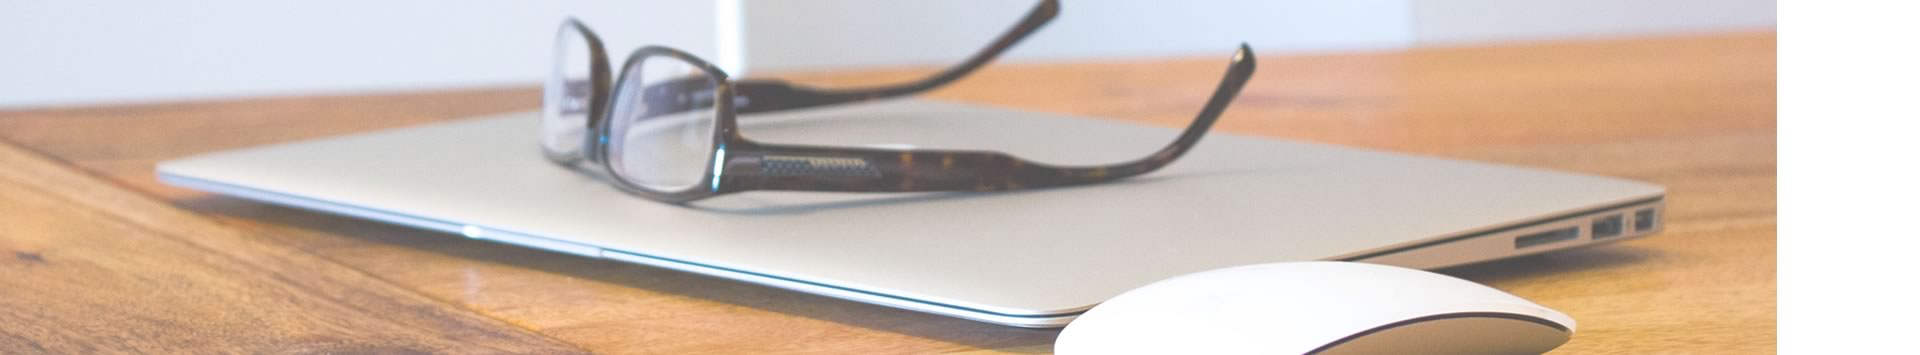
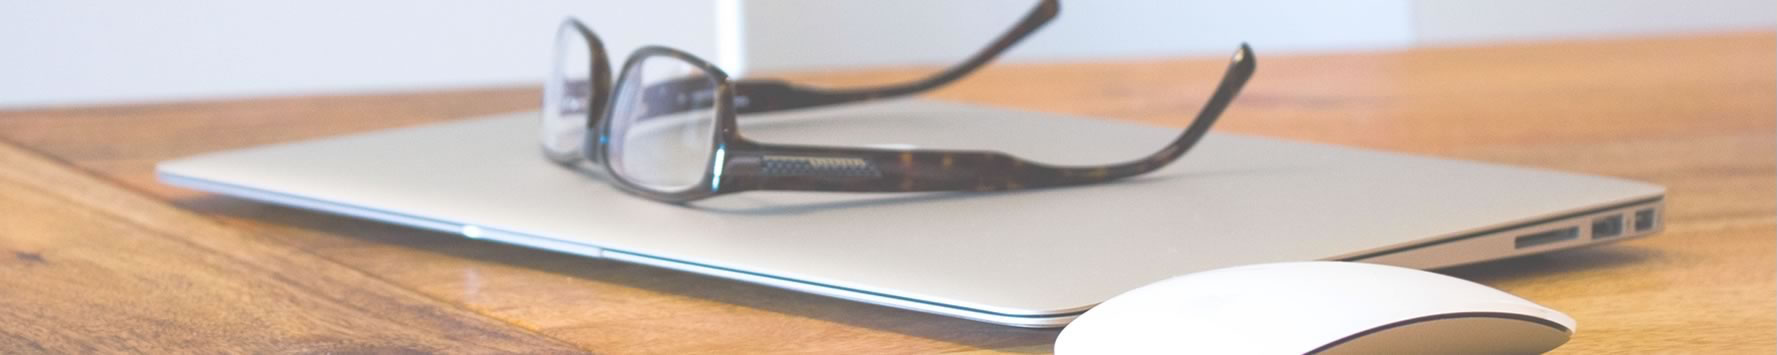
about: header image, Close #54

diff --git a/css/about.css b/css/about.css
@@ -1,1 +1,1 @@
-code{background-color:#002b36;color:#93a1a1}code .c{color:#586e75}code .err{color:#93a1a1}code .g{color:#93a1a1}code .k{color:#859900}code .l{color:#93a1a1}code .n{color:#93a1a1}code .o{color:#859900}code .x{color:#cb4b16}code .p{color:#93a1a1}code .cm{color:#586e75}code .cp{color:#859900}code .c1{color:#586e75}code .cs{color:#859900}code .gd{color:#2aa198}code .ge{color:#93a1a1;font-style:italic}code .gr{color:#dc322f}code .gh{color:#cb4b16}code .gi{color:#859900}code .go{color:#93a1a1}code .gp{color:#93a1a1}code .gs{color:#93a1a1;font-weight:bold}code .gu{color:#cb4b16}code .gt{color:#93a1a1}code .kc{color:#cb4b16}code .kd{color:#268bd2}code .kn{color:#859900}code .kp{color:#859900}code .kr{color:#268bd2}code .kt{color:#dc322f}code .ld{color:#93a1a1}code .m{color:#2aa198}code .s{color:#2aa198}code .na{color:#93a1a1}code .nb{color:#b58900}code .nc{color:#268bd2}code .no{color:#cb4b16}code .nd{color:#268bd2}code .ni{color:#cb4b16}code .ne{color:#cb4b16}code .nf{color:#268bd2}code .nl{color:#93a1a1}code .nn{color:#93a1a1}code .nx{color:#93a1a1}code .py{color:#93a1a1}code .nt{color:#268bd2}code .nv{color:#268bd2}code .ow{color:#859900}code .w{color:#93a1a1}code .mf{color:#2aa198}code .mh{color:#2aa198}code .mi{color:#2aa198}code .mo{color:#2aa198}code .sb{color:#586e75}code .sc{color:#2aa198}code .sd{color:#93a1a1}code .s2{color:#2aa198}code .se{color:#cb4b16}code .sh{color:#93a1a1}code .si{color:#2aa198}code .sx{color:#2aa198}code .sr{color:#dc322f}code .s1{color:#2aa198}code .ss{color:#2aa198}code .bp{color:#268bd2}code .vc{color:#268bd2}code .vg{color:#268bd2}code .vi{color:#268bd2}code .il{color:#2aa198}html,body,div,span,applet,object,iframe,h1,h2,h3,h4,h5,h6,p,blockquote,pre,a,abbr,acronym,address,big,cite,code,del,dfn,em,img,ins,kbd,q,s,samp,small,strike,strong,sub,sup,tt,var,b,u,i,center,dl,dt,dd,ol,ul,li,fieldset,form,label,legend,table,caption,tbody,tfoot,thead,tr,th,td,article,aside,canvas,details,embed,figure,figcaption,footer,header,hgroup,menu,nav,output,ruby,section,summary,time,mark,audio,video{margin:0;padding:0;border:0;font:inherit;font-size:100%;vertical-align:baseline}html{line-height:1}ol,ul{list-style:none}table{border-collapse:collapse;border-spacing:0}caption,th,td{text-align:left;font-weight:normal;vertical-align:middle}q,blockquote{quotes:none}q:before,q:after,blockquote:before,blockquote:after{content:"";content:none}a img{border:none}article,aside,details,figcaption,figure,footer,header,hgroup,menu,nav,section,summary{display:block}@font-face{font-family:'Proxima Nova Light Italic';src:url('../fonts/ProximaNova-LightItalic.eot');src:url('../fonts/ProximaNova-LightItalic.eot?#iefix') format("embedded-opentype"),url('../fonts/ProximaNova-LightItalic.woff') format("woff"),url('../fonts/ProximaNova-LightItalic.ttf') format("truetype"),url('../fonts/ProximaNova-LightItalic.svg#1a04ccc617b24808e8115891ca97cce8') format("svg");font-style:italic;font-weight:200}@font-face{font-family:'Proxima Nova Extrabold';src:url('../fonts/ProximaNova-Extrabold.eot');src:url('../fonts/ProximaNova-Extrabold.eot?#iefix') format("embedded-opentype"),url('../fonts/ProximaNova-Extrabold.woff') format("woff"),url('../fonts/ProximaNova-Extrabold.ttf') format("truetype"),url('../fonts/ProximaNova-Extrabold.svg#131ef5652291f8dc4bd914210809df02') format("svg");font-style:normal;font-weight:700}@font-face{font-family:'Proxima Nova Semibold';src:url('../fonts/ProximaNova-Semibold.eot');src:url('../fonts/ProximaNova-Semibold.eot?#iefix') format("embedded-opentype"),url('../fonts/ProximaNova-Semibold.woff') format("woff"),url('../fonts/ProximaNova-Semibold.ttf') format("truetype"),url('../fonts/ProximaNova-Semibold.svg#67a6c9f6d7dc8f35ecb08de766ea56f0') format("svg");font-style:normal;font-weight:700}@font-face{font-family:'Proxima Nova Bold';src:url('../fonts/ProximaNova-Bold.eot');src:url('../fonts/ProximaNova-Bold.eot?#iefix') format("embedded-opentype"),url('../fonts/ProximaNova-Bold.woff') format("woff"),url('../fonts/ProximaNova-Bold.ttf') format("truetype"),url('../fonts/ProximaNova-Bold.svg#d1e00a8fb1fd9b428ab6b90409479fde') format("svg");font-style:normal;font-weight:700}@font-face{font-family:'Proxima Nova Regular';src:url('../fonts/ProximaNova-Regular.eot');src:url('../fonts/ProximaNova-Regular.eot?#iefix') format("embedded-opentype"),url('../fonts/ProximaNova-Regular.woff') format("woff"),url('../fonts/ProximaNova-Regular.ttf') format("truetype"),url('../fonts/ProximaNova-Regular.svg#2c1459d58560f08b4b0586fbe80aa4cd') format("svg");font-style:normal;font-weight:400}@font-face{font-family:'Proxima Nova Light';src:url('../fonts/ProximaNova-Light.eot');src:url('../fonts/ProximaNova-Light.eot?#iefix') format("embedded-opentype"),url('../fonts/ProximaNova-Light.woff') format("woff"),url('../fonts/ProximaNova-Light.ttf') format("truetype"),url('../fonts/ProximaNova-Light.svg#da6ddaf3cf69afbba47bd74b5010b98d') format("svg");font-style:normal;font-weight:200}.icons-sprite,.icons-anchor,.icons-arrow-down,.icons-arrow-right,.icons-arrow,.icons-book-large-white,.icons-book-medium-black,.icons-book-medium-orange,.icons-book-medium-white,.icons-book-small-orange,.icons-book-small-white,.icons-book,.icons-calendar-large-white,.icons-calendar-medium-white,.icons-calendar-small-black,.icons-calendar-small-orange,.icons-calendar-small-white,.icons-design-large-white,.icons-design-medium-black,.icons-design-medium-orange,.icons-design-medium-white,.icons-design-small-black,.icons-design-small-orange,.icons-design-small-white,.icons-design,.icons-difficulty-large-white,.icons-difficulty-medium-black,.icons-difficulty-medium-orange,.icons-difficulty-medium-white,.icons-difficulty-small-black,.icons-difficulty-small-orange,.icons-difficulty-small-white,.icons-logo-footer,.icons-logo-inside,.icons-logo,.icons-org-large-white,.icons-org-medium-black,.icons-org-medium-orange,.icons-org-medium-white,.icons-org-small-black,.icons-org-small-orange,.icons-org-small-white,.icons-org,.icons-pin,.icons-time-large-white,.icons-time-medium-black,.icons-time-medium-orange,.icons-time-medium-white,.icons-time-small-black,.icons-time-small-orange,.icons-time-small-white,.icons-twitter-footer{background:url('../img/icons-s131d88969d.png') no-repeat}.icons-anchor{background-position:0 -1387px}.icons-arrow-down{background-position:0 -1589px}.icons-arrow-right{background-position:0 -1518px}.icons-arrow{background-position:0 -1579px}.icons-book-large-white{background-position:0 -337px}.icons-book-medium-black{background-position:0 -861px}.icons-book-medium-orange{background-position:0 -633px}.icons-book-medium-white{background-position:0 -717px}.icons-book-small-orange{background-position:0 -989px}.icons-book-small-white{background-position:0 -1121px}.icons-book{background-position:0 -559px}.icons-calendar-large-white{background-position:0 -589px}.icons-calendar-medium-white{background-position:0 -1253px}.icons-calendar-small-black{background-position:0 -1446px}.icons-calendar-small-orange{background-position:0 -1199px}.icons-calendar-small-white{background-position:0 -1398px}.icons-design-large-white{background-position:0 -891px}.icons-design-medium-black{background-position:0 -1357px}.icons-design-medium-orange{background-position:0 -1067px}.icons-design-medium-white{background-position:0 -1327px}.icons-design-small-black{background-position:0 -1555px}.icons-design-small-orange{background-position:0 -1422px}.icons-design-small-white{background-position:0 -1470px}.icons-design{background-position:0 -1013px}.icons-difficulty-large-white{background-position:0 -293px}.icons-difficulty-medium-black{background-position:0 -935px}.icons-difficulty-medium-orange{background-position:0 -529px}.icons-difficulty-medium-white{background-position:0 -663px}.icons-difficulty-small-black{background-position:0 -1283px}.icons-difficulty-small-orange{background-position:0 -837px}.icons-difficulty-small-white{background-position:0 -1097px}.icons-logo-footer{background-position:0 -243px}.icons-logo-inside{background-position:0 -149px}.icons-logo{background-position:0 0}.icons-org-large-white{background-position:0 -381px}.icons-org-medium-black{background-position:0 -807px}.icons-org-medium-orange{background-position:0 -425px}.icons-org-medium-white{background-position:0 -747px}.icons-org-small-black{background-position:0 -1175px}.icons-org-small-orange{background-position:0 -693px}.icons-org-small-white{background-position:0 -1043px}.icons-org{background-position:0 -455px}.icons-pin{background-position:0 -199px}.icons-time-large-white{background-position:0 -485px}.icons-time-medium-black{background-position:0 -1223px}.icons-time-medium-orange{background-position:0 -777px}.icons-time-medium-white{background-position:0 -1145px}.icons-time-small-black{background-position:0 -1531px}.icons-time-small-orange{background-position:0 -965px}.icons-time-small-white{background-position:0 -1494px}.icons-twitter-footer{background-position:0 -1307px}.icon{display:block;float:left;width:30px;height:30px}.icon.i-hard{filter:progid:DXImageTransform.Microsoft.Alpha(Opacity=80);opacity:0.8}.icon.i-medium{filter:progid:DXImageTransform.Microsoft.Alpha(Opacity=60);opacity:0.6}.icon.i-light{filter:progid:DXImageTransform.Microsoft.Alpha(Opacity=20);opacity:0.2}.icon.i-xl{width:44px;height:44px}.icon.i-m{width:24px;height:24px}.icon.brand-inside{width:40px;height:50px;margin-right:12px}.icon.arrow-down{width:12px;height:8px}.icon.arrow-right{width:15px;height:13px;margin-right:12px;margin-top:3px}.icon.icons-anchor{float:none;display:inline-block;height:13px;width:24px;margin-left:10px;vertical-align:middle}.button{float:left;margin:0;padding:0 40px;background:#397DBA;border:0;font:18px/57px 'Proxima Nova Bold';color:#fff;outline:none;-webkit-transition:background 0.15s;-moz-transition:background 0.15s;-o-transition:background 0.15s;transition:background 0.15s}.button:hover{background:#3370a6;cursor:pointer}.append-button{-webkit-border-radius:0 5px 5px 0;-moz-border-radius:0 5px 5px 0;-ms-border-radius:0 5px 5px 0;-o-border-radius:0 5px 5px 0;border-radius:0 5px 5px 0}.btn-round{min-width:200px;border:2px solid #FFF;padding:15px 50px;background:rgba(0,0,0,0.2);-webkit-border-radius:100px;-moz-border-radius:100px;-ms-border-radius:100px;-o-border-radius:100px;border-radius:100px;color:#FFF;text-transform:uppercase;-webkit-transition:all 0.15s;-moz-transition:all 0.15s;-o-transition:all 0.15s;transition:all 0.15s}.btn-round:hover{background:rgba(0,0,0,0.4);color:#fff}.btn-round.blue{background:#FFF;border:2px solid #3B7EBB;color:#3B7EBB}.btn-round.blue:hover{color:#234a6d;border-color:#234a6d}html{-webkit-font-smoothing:antialiased}body{color:#333}.inner{*zoom:1;width:940px;margin:0 auto;padding:0 10px}.inner:after{content:"";display:table;clear:both}.fixed{position:fixed;z-index:1000001}.hide{display:none}a{text-decoration:none;color:#397dba;-webkit-transition:all 0.15s linear;-moz-transition:all 0.15s linear;-o-transition:all 0.15s linear;transition:all 0.15s linear}a:hover{text-decoration:none;color:#2d6393}.title-l{font:24px 'Proxima Nova Extrabold';letter-spacing:-1px}.size-l{font:18px 'Proxima Nova Regular'}.size-bl{font:18px 'Proxima Nova Extrabold'}.size-sbl{font:18px 'Proxima Nova Light'}.size-m{font:16px 'Proxima Nova Regular'}.size-bm{font:16px 'Proxima Nova Extrabold'}.size-sbm{font:16px 'Proxima Nova Light'}.size-s{font:14px 'Proxima Nova Regular'}.size-bs{font:14px 'Proxima Nova Extrabold'}.size-sbs{font:14px 'Proxima Nova Light'}.size-xs{font:12px 'Proxima Nova Regular'}.size-bxs{font:12px 'Proxima Nova Extrabold'}.size-sbxs{font:12px 'Proxima Nova Light'}.header{padding:25px 0;background:#397dba;color:#fff;-webkit-box-shadow:inset 0 -1px 0 rgba(0,0,0,0.2);-moz-box-shadow:inset 0 -1px 0 rgba(0,0,0,0.2);box-shadow:inset 0 -1px 0 rgba(0,0,0,0.2)}.header a{color:#fff}#cartodb-map{position:absolute;z-index:1;top:0;bottom:0;left:0;width:100%}.footer{position:relative;z-index:1000002;font:14px "Proxima Nova Regular";background:#252A2F;color:#fff}.footer a{color:#fff;-webkit-transition:0.3s all;-moz-transition:0.3s all;-o-transition:0.3s all;transition:0.3s all}.footer a:hover{color:#b3b3b3}.footer-inner{*zoom:1;padding:20px}.footer-inner:after{content:"";display:table;clear:both}.footer-inner p{display:-moz-inline-stack;display:inline-block;vertical-align:middle;*vertical-align:auto;zoom:1;*display:inline;font:normal 700 14px 'Proxima Nova Semibold'}.ftr-brand{text-indent:-9000px;width:38px;height:50px;margin-right:20px;background:url('../img/icons/logo-footer.png?1399284389') no-repeat;background-size:38px}.ftr-left{float:left}.ftr-right{float:right}.ftr-twitter{display:-moz-inline-stack;display:inline-block;vertical-align:middle;*vertical-align:auto;zoom:1;*display:inline;width:29px;height:20px;margin-right:8px;background:url('../img/icons/twitter-footer.png?1397073941') no-repeat;filter:progid:DXImageTransform.Microsoft.Alpha(Opacity=50);opacity:0.5}.ftr-share{margin-top:16px}.disclaimer{margin-top:20px;font:16px "Proxima Nova Light";color:rgba(255,255,255,0.5)}.h-valign{position:relative}.h-valign:before{display:-moz-inline-stack;display:inline-block;vertical-align:middle;*vertical-align:auto;zoom:1;*display:inline;content:"";height:100%}.h-iblock{display:inline-block;margin-left:-4px}.h-malign{vertical-align:middle}.h-tcenter{text-align:center}.h-tright{text-align:right}.h-left{float:left}.h-right{float:right}.h-txt-white{color:#fff}.h-pa{position:absolute}.h-pr{position:relative}.inb-list>li{display:inline-block;vertical-align:top}.hdr-course{position:relative;height:330px;margin-bottom:40px;border-bottom:1px solid #CCC;background:#eee}.hdr-info{margin-top:39px;color:rgba(255,255,255,0.6)}.hdr-info a{text-decoration:underline;color:rgba(255,255,255,0.6)}.hdr-info a:hover{color:#fff}.hdr-title{display:inline-block;margin-bottom:4px;font:22px/24px 'Proxima Nova Bold';letter-spacing:-1px}.hdr-crs-inner{z-index:1;height:330px}.hdr-crs-title{margin-bottom:8px;font:48px/52px 'Proxima Nova Bold';letter-spacing:-1px;color:#111}.hdr-crs-subtitle{font:26px/30px 'Proxima Nova Light'}.hdr-crs-icon{display:-moz-inline-stack;display:inline-block;vertical-align:middle;*vertical-align:auto;zoom:1;*display:inline;width:85px;height:85px;border:4px solid rgba(255,255,255,0.8);margin-bottom:12px;background:#85C77C;-webkit-border-radius:50%;-moz-border-radius:50%;-ms-border-radius:50%;-o-border-radius:50%;border-radius:50%}.hdr-nav{padding:25px 10px}.crs-nav{position:relative;width:218px;padding-top:7px}.crs-home .crs-nav{padding-top:41px}.crs-nav li{margin-bottom:32px}.crs-nav h3{margin-bottom:10px}.crs-nav h3.current{margin-left:-13px;padding-left:10px;border-left:3px solid #397DBA}.crs-nav.fixed{position:fixed;top:106px}.crs-nav.bottom{position:absolute;z-index:1;top:auto;bottom:0}.crs-nav-info{margin-bottom:10px;color:#666}.crs-nav-info a{color:#666}.crs-nav-info a:hover{color:#000;text-decoration:underline}.crs-inner{width:700px}.crs-info{position:relative;margin-bottom:40px}.crs-info:before{content:"";position:absolute;top:0;right:0;bottom:0;left:0;border:1px solid #ddd;border:1px solid rgba(0,0,0,0.2);-webkit-border-radius:4px;-moz-border-radius:4px;-ms-border-radius:4px;-o-border-radius:4px;border-radius:4px;pointer-events:none}.crs-info-container{padding:40px}.crs-footer{background:#85C77C;padding:40px;border-bottom-right-radius:4px;border-bottom-left-radius:4px}.crs-ftr-option{margin-right:100px}.crs-ftr-option>li{margin-left:45px}.crs-ftr-option>li:first-child{margin-left:0}.crs-ftr-option dt{margin-bottom:2px;filter:progid:DXImageTransform.Microsoft.Alpha(Opacity=80);opacity:0.8}.crs-ftr-option dd:first-letter{text-transform:uppercase}.crs-info-title{margin-bottom:20px}.crs-info-txt{margin-bottom:40px;font:18px/1.3 'Proxima Nova Regular'}.crs-info-pre>li{margin-top:18px}.crs-info-pre>li:first-child{margin-top:0}.crs-ftr-icon{margin-right:12px;width:48px;height:48px;background:#fff;-webkit-border-radius:2px;-moz-border-radius:2px;-ms-border-radius:2px;-o-border-radius:2px;border-radius:2px}.crs-subscribe{padding:40px;margin-bottom:80px;background:#424a50;color:#fff}.crs-sbs-icon{margin-right:16px}.crs-sbs-title{margin-bottom:6px}.crs-sbs-header{margin-bottom:24px}.crs-disclaimer{filter:progid:DXImageTransform.Microsoft.Alpha(Opacity=50);opacity:0.5}.crs-share{margin:45px 0 0 0}.crs-sbs-form{margin-bottom:20px}.crs-sbs-form fieldset{-webkit-border-radius:4px;-moz-border-radius:4px;-ms-border-radius:4px;-o-border-radius:4px;border-radius:4px;background:#fff}.crs-sbs-form input[type="text"]{position:relative;z-index:3;margin:6px 0 0 10px;padding:10px;width:70%;border:0;background:none}.crs-sbs-form input[type="text"]:focus{outline:none}.crs-sbs-form input[type="text"]:focus+label{opacity:0}.crs-sbs-form label{top:16px;left:20px;z-index:1;color:#aaa;-webkit-transition:opacity 0.3s;-moz-transition:opacity 0.3s;-o-transition:opacity 0.3s;transition:opacity 0.3s}.crs-sbs-submit{border:0;padding:18px 20px;margin:0;margin-right:-1px;background:#397dba;-webkit-border-radius:0 5px 5px 0;-moz-border-radius:0 5px 5px 0;-ms-border-radius:0 5px 5px 0;-o-border-radius:0 5px 5px 0;border-radius:0 5px 5px 0;cursor:pointer}.breadcumbs a{color:#333}.breadcumbs a:hover{color:#000;text-decoration:underline}.breadcumbs>li{font:16px 'Proxima Nova Light'}.breadcumbs>li.last{font-family:'Proxima Nova Bold';font-weight:700}.breadcumbs>li.last:after{content:''}.breadcumbs>li:after{content:'\203A';margin:0 5px 0 8px}.h-dropdown{z-index:2;overflow:hidden;top:12px;right:10px;background:#fff;-webkit-border-radius:4px;-moz-border-radius:4px;-ms-border-radius:4px;-o-border-radius:4px;border-radius:4px;padding:12px 50px 12px 12px;height:16px;border:1px solid rgba(0,0,0,0.1)}.h-dropdown a{color:#333}.h-dropdown a:hover{color:#000;text-decoration:none}.h-dropdown li{margin-bottom:16px;line-height:1}.h-dropdown li:last-child{margin-bottom:0}.h-dropdown.drp-open{height:auto;-webkit-box-shadow:0px 0px 7px rgba(0,0,0,0.1);-moz-box-shadow:0px 0px 7px rgba(0,0,0,0.1);box-shadow:0px 0px 7px rgba(0,0,0,0.1)}.h-drp-actions{top:8px;right:12px;padding:8px 0 8px 12px;border-left:1px solid #ccc}.lss-inner{margin:0 0 50px 0}.lss-inner p{font:18px/28px 'Proxima Nova Regular';margin-bottom:20px}.lss-inner h2{color:#111;font:24px/26px 'Proxima Nova Extrabold';margin-bottom:18px}.lss-inner h3{color:#111;font:20px/23px 'Proxima Nova Extrabold';margin-bottom:16px;margin-top:40px}.lss-inner img,.lss-inner iframe{max-width:700px;margin:14px 0 6px 0}.lss-inner .lss-end{padding:40px 0 20px 0;margin:0 0 40px 0;border-top:1px solid #DDD;border-bottom:1px solid #DDD;*zoom:1}.lss-inner .lss-end:after{content:"";display:table;clear:both}.lss-inner .lss-end h2{margin:0}.lss-inner .lss-end p{margin:0 0 24px 0;font-size:16px;color:#999}.lss-inner .lss-end .h-right{margin:15px 0 0 0}.lss-inner .lss-end span{padding:5px 7px 5px 7px;margin:0 3px 0 3px;background-color:red;border-radius:3px}.lss-inner .lss-end span.twitter{background-color:#4DD2FF}.lss-inner .lss-end span.facebook{background-color:#006DD9}.lss-inner .lss-end span a{font-family:'Proxima Nova Semibold';font-weight:700;color:white}pre,code{overflow:auto;background-color:#F8F8F8;margin-bottom:38px;padding:20px;border:1px solid #DDD;font:16px/22px Consolas, "Liberation Mono", Courier, monospace;-webkit-border-radius:3px;-moz-border-radius:3px;-ms-border-radius:3px;-o-border-radius:3px;border-radius:3px}code{padding:2px}pre>code{border:none;padding:0;background:transparent}.lss-hdr-inner{border-bottom:1px solid #CCC;width:100%;background:#fff}.lss-hdr-inner.fixed{position:fixed;z-index:1001;top:-103px}.lss-hdr-inner.border{border-bottom:1px solid #ccc;border-bottom-color:rgba(204,204,204,0.2)}.lss-hdr-inner.scroll:after{content:"";position:absolute;right:0;bottom:-136px;left:0;height:135px;background:-webkit-gradient(linear, 50% 0%, 50% 100%, color-stop(0%, #ffffff), color-stop(100%, rgba(255,255,255,0)));background:-webkit-linear-gradient(top, #ffffff,rgba(255,255,255,0));background:-moz-linear-gradient(top, #ffffff,rgba(255,255,255,0));background:-o-linear-gradient(top, #ffffff,rgba(255,255,255,0));background:linear-gradient(top, #ffffff,rgba(255,255,255,0));-webkit-box-shadow:inset 0px 2px 3px rgba(0,0,0,0.05);-moz-box-shadow:inset 0px 2px 3px rgba(0,0,0,0.05);box-shadow:inset 0px 2px 3px rgba(0,0,0,0.05);pointer-events:none}.lss-container{position:relative}.lss-container.scrolled{padding-top:170px}.lss-course{position:relative;border-bottom:1px solid #CCC;margin-bottom:40px;height:105px;background:#eee}.progress-bar{display:-moz-inline-stack;display:inline-block;vertical-align:middle;*vertical-align:auto;zoom:1;*display:inline;position:relative;padding:9px 0}.progress-num{display:none;position:absolute;top:17px;right:-50px;width:100px;font:bold 14px/40px "Proxima Nova Bold";background:rgba(66,74,80,0.9);color:rgba(255,255,255,0.8);-webkit-border-radius:5px;-moz-border-radius:5px;-ms-border-radius:5px;-o-border-radius:5px;border-radius:5px;text-align:center}.progress-num:after{content:" ";display:block;position:absolute;bottom:100%;left:50%;margin-left:-8px;height:0;width:0;border:8px solid transparent;border-bottom:6px solid rgba(66,74,80,0.9);pointer-events:none}.progress-bar-outer{position:absolute;z-index:1;right:10px;left:10px;bottom:-10px}.progress-bar-inner{height:1px;background:#74bf6a;-webkit-box-shadow:0 0 3px rgba(133,199,124,0.3);-moz-box-shadow:0 0 3px rgba(133,199,124,0.3);box-shadow:0 0 3px rgba(133,199,124,0.3)}.lss-about{box-shadow:none}.hdr-about{position:relative;height:360px;margin-bottom:40px;background:url("../img/header-about.jpg") 0 0 no-repeat}.hdr-title{display:inline-block;margin-bottom:4px;font:22px/24px 'Proxima Nova Bold';letter-spacing:-1px}.hdr-crs-inner{height:360px}.lss-hdr-inner{border-bottom:0}
+code{background-color:#002b36;color:#93a1a1}code .c{color:#586e75}code .err{color:#93a1a1}code .g{color:#93a1a1}code .k{color:#859900}code .l{color:#93a1a1}code .n{color:#93a1a1}code .o{color:#859900}code .x{color:#cb4b16}code .p{color:#93a1a1}code .cm{color:#586e75}code .cp{color:#859900}code .c1{color:#586e75}code .cs{color:#859900}code .gd{color:#2aa198}code .ge{color:#93a1a1;font-style:italic}code .gr{color:#dc322f}code .gh{color:#cb4b16}code .gi{color:#859900}code .go{color:#93a1a1}code .gp{color:#93a1a1}code .gs{color:#93a1a1;font-weight:bold}code .gu{color:#cb4b16}code .gt{color:#93a1a1}code .kc{color:#cb4b16}code .kd{color:#268bd2}code .kn{color:#859900}code .kp{color:#859900}code .kr{color:#268bd2}code .kt{color:#dc322f}code .ld{color:#93a1a1}code .m{color:#2aa198}code .s{color:#2aa198}code .na{color:#93a1a1}code .nb{color:#b58900}code .nc{color:#268bd2}code .no{color:#cb4b16}code .nd{color:#268bd2}code .ni{color:#cb4b16}code .ne{color:#cb4b16}code .nf{color:#268bd2}code .nl{color:#93a1a1}code .nn{color:#93a1a1}code .nx{color:#93a1a1}code .py{color:#93a1a1}code .nt{color:#268bd2}code .nv{color:#268bd2}code .ow{color:#859900}code .w{color:#93a1a1}code .mf{color:#2aa198}code .mh{color:#2aa198}code .mi{color:#2aa198}code .mo{color:#2aa198}code .sb{color:#586e75}code .sc{color:#2aa198}code .sd{color:#93a1a1}code .s2{color:#2aa198}code .se{color:#cb4b16}code .sh{color:#93a1a1}code .si{color:#2aa198}code .sx{color:#2aa198}code .sr{color:#dc322f}code .s1{color:#2aa198}code .ss{color:#2aa198}code .bp{color:#268bd2}code .vc{color:#268bd2}code .vg{color:#268bd2}code .vi{color:#268bd2}code .il{color:#2aa198}html,body,div,span,applet,object,iframe,h1,h2,h3,h4,h5,h6,p,blockquote,pre,a,abbr,acronym,address,big,cite,code,del,dfn,em,img,ins,kbd,q,s,samp,small,strike,strong,sub,sup,tt,var,b,u,i,center,dl,dt,dd,ol,ul,li,fieldset,form,label,legend,table,caption,tbody,tfoot,thead,tr,th,td,article,aside,canvas,details,embed,figure,figcaption,footer,header,hgroup,menu,nav,output,ruby,section,summary,time,mark,audio,video{margin:0;padding:0;border:0;font:inherit;font-size:100%;vertical-align:baseline}html{line-height:1}ol,ul{list-style:none}table{border-collapse:collapse;border-spacing:0}caption,th,td{text-align:left;font-weight:normal;vertical-align:middle}q,blockquote{quotes:none}q:before,q:after,blockquote:before,blockquote:after{content:"";content:none}a img{border:none}article,aside,details,figcaption,figure,footer,header,hgroup,menu,nav,section,summary{display:block}@font-face{font-family:'Proxima Nova Light Italic';src:url('../fonts/ProximaNova-LightItalic.eot');src:url('../fonts/ProximaNova-LightItalic.eot?#iefix') format("embedded-opentype"),url('../fonts/ProximaNova-LightItalic.woff') format("woff"),url('../fonts/ProximaNova-LightItalic.ttf') format("truetype"),url('../fonts/ProximaNova-LightItalic.svg#1a04ccc617b24808e8115891ca97cce8') format("svg");font-style:italic;font-weight:200}@font-face{font-family:'Proxima Nova Extrabold';src:url('../fonts/ProximaNova-Extrabold.eot');src:url('../fonts/ProximaNova-Extrabold.eot?#iefix') format("embedded-opentype"),url('../fonts/ProximaNova-Extrabold.woff') format("woff"),url('../fonts/ProximaNova-Extrabold.ttf') format("truetype"),url('../fonts/ProximaNova-Extrabold.svg#131ef5652291f8dc4bd914210809df02') format("svg");font-style:normal;font-weight:700}@font-face{font-family:'Proxima Nova Semibold';src:url('../fonts/ProximaNova-Semibold.eot');src:url('../fonts/ProximaNova-Semibold.eot?#iefix') format("embedded-opentype"),url('../fonts/ProximaNova-Semibold.woff') format("woff"),url('../fonts/ProximaNova-Semibold.ttf') format("truetype"),url('../fonts/ProximaNova-Semibold.svg#67a6c9f6d7dc8f35ecb08de766ea56f0') format("svg");font-style:normal;font-weight:700}@font-face{font-family:'Proxima Nova Bold';src:url('../fonts/ProximaNova-Bold.eot');src:url('../fonts/ProximaNova-Bold.eot?#iefix') format("embedded-opentype"),url('../fonts/ProximaNova-Bold.woff') format("woff"),url('../fonts/ProximaNova-Bold.ttf') format("truetype"),url('../fonts/ProximaNova-Bold.svg#d1e00a8fb1fd9b428ab6b90409479fde') format("svg");font-style:normal;font-weight:700}@font-face{font-family:'Proxima Nova Regular';src:url('../fonts/ProximaNova-Regular.eot');src:url('../fonts/ProximaNova-Regular.eot?#iefix') format("embedded-opentype"),url('../fonts/ProximaNova-Regular.woff') format("woff"),url('../fonts/ProximaNova-Regular.ttf') format("truetype"),url('../fonts/ProximaNova-Regular.svg#2c1459d58560f08b4b0586fbe80aa4cd') format("svg");font-style:normal;font-weight:400}@font-face{font-family:'Proxima Nova Light';src:url('../fonts/ProximaNova-Light.eot');src:url('../fonts/ProximaNova-Light.eot?#iefix') format("embedded-opentype"),url('../fonts/ProximaNova-Light.woff') format("woff"),url('../fonts/ProximaNova-Light.ttf') format("truetype"),url('../fonts/ProximaNova-Light.svg#da6ddaf3cf69afbba47bd74b5010b98d') format("svg");font-style:normal;font-weight:200}.icons-sprite,.icons-anchor,.icons-arrow-down,.icons-arrow-right,.icons-arrow,.icons-book-large-white,.icons-book-medium-black,.icons-book-medium-orange,.icons-book-medium-white,.icons-book-small-orange,.icons-book-small-white,.icons-book,.icons-calendar-large-white,.icons-calendar-medium-white,.icons-calendar-small-black,.icons-calendar-small-orange,.icons-calendar-small-white,.icons-design-large-white,.icons-design-medium-black,.icons-design-medium-orange,.icons-design-medium-white,.icons-design-small-black,.icons-design-small-orange,.icons-design-small-white,.icons-design,.icons-difficulty-large-white,.icons-difficulty-medium-black,.icons-difficulty-medium-orange,.icons-difficulty-medium-white,.icons-difficulty-small-black,.icons-difficulty-small-orange,.icons-difficulty-small-white,.icons-logo-footer,.icons-logo-inside,.icons-logo,.icons-org-large-white,.icons-org-medium-black,.icons-org-medium-orange,.icons-org-medium-white,.icons-org-small-black,.icons-org-small-orange,.icons-org-small-white,.icons-org,.icons-pin,.icons-time-large-white,.icons-time-medium-black,.icons-time-medium-orange,.icons-time-medium-white,.icons-time-small-black,.icons-time-small-orange,.icons-time-small-white,.icons-twitter-footer{background:url('../img/icons-s131d88969d.png') no-repeat}.icons-anchor{background-position:0 -1387px}.icons-arrow-down{background-position:0 -1589px}.icons-arrow-right{background-position:0 -1518px}.icons-arrow{background-position:0 -1579px}.icons-book-large-white{background-position:0 -337px}.icons-book-medium-black{background-position:0 -861px}.icons-book-medium-orange{background-position:0 -633px}.icons-book-medium-white{background-position:0 -717px}.icons-book-small-orange{background-position:0 -989px}.icons-book-small-white{background-position:0 -1121px}.icons-book{background-position:0 -559px}.icons-calendar-large-white{background-position:0 -589px}.icons-calendar-medium-white{background-position:0 -1253px}.icons-calendar-small-black{background-position:0 -1446px}.icons-calendar-small-orange{background-position:0 -1199px}.icons-calendar-small-white{background-position:0 -1398px}.icons-design-large-white{background-position:0 -891px}.icons-design-medium-black{background-position:0 -1357px}.icons-design-medium-orange{background-position:0 -1067px}.icons-design-medium-white{background-position:0 -1327px}.icons-design-small-black{background-position:0 -1555px}.icons-design-small-orange{background-position:0 -1422px}.icons-design-small-white{background-position:0 -1470px}.icons-design{background-position:0 -1013px}.icons-difficulty-large-white{background-position:0 -293px}.icons-difficulty-medium-black{background-position:0 -935px}.icons-difficulty-medium-orange{background-position:0 -529px}.icons-difficulty-medium-white{background-position:0 -663px}.icons-difficulty-small-black{background-position:0 -1283px}.icons-difficulty-small-orange{background-position:0 -837px}.icons-difficulty-small-white{background-position:0 -1097px}.icons-logo-footer{background-position:0 -243px}.icons-logo-inside{background-position:0 -149px}.icons-logo{background-position:0 0}.icons-org-large-white{background-position:0 -381px}.icons-org-medium-black{background-position:0 -807px}.icons-org-medium-orange{background-position:0 -425px}.icons-org-medium-white{background-position:0 -747px}.icons-org-small-black{background-position:0 -1175px}.icons-org-small-orange{background-position:0 -693px}.icons-org-small-white{background-position:0 -1043px}.icons-org{background-position:0 -455px}.icons-pin{background-position:0 -199px}.icons-time-large-white{background-position:0 -485px}.icons-time-medium-black{background-position:0 -1223px}.icons-time-medium-orange{background-position:0 -777px}.icons-time-medium-white{background-position:0 -1145px}.icons-time-small-black{background-position:0 -1531px}.icons-time-small-orange{background-position:0 -965px}.icons-time-small-white{background-position:0 -1494px}.icons-twitter-footer{background-position:0 -1307px}.icon{display:block;float:left;width:30px;height:30px}.icon.i-hard{filter:progid:DXImageTransform.Microsoft.Alpha(Opacity=80);opacity:0.8}.icon.i-medium{filter:progid:DXImageTransform.Microsoft.Alpha(Opacity=60);opacity:0.6}.icon.i-light{filter:progid:DXImageTransform.Microsoft.Alpha(Opacity=20);opacity:0.2}.icon.i-xl{width:44px;height:44px}.icon.i-m{width:24px;height:24px}.icon.brand-inside{width:40px;height:50px;margin-right:12px}.icon.arrow-down{width:12px;height:8px}.icon.arrow-right{width:15px;height:13px;margin-right:12px;margin-top:3px}.icon.icons-anchor{float:none;display:inline-block;height:13px;width:24px;margin-left:10px;vertical-align:middle}.button{float:left;margin:0;padding:0 40px;background:#397DBA;border:0;font:18px/57px 'Proxima Nova Bold';color:#fff;outline:none;-webkit-transition:background 0.15s;-moz-transition:background 0.15s;-o-transition:background 0.15s;transition:background 0.15s}.button:hover{background:#3370a6;cursor:pointer}.append-button{-webkit-border-radius:0 5px 5px 0;-moz-border-radius:0 5px 5px 0;-ms-border-radius:0 5px 5px 0;-o-border-radius:0 5px 5px 0;border-radius:0 5px 5px 0}.btn-round{min-width:200px;border:2px solid #FFF;padding:15px 50px;background:rgba(0,0,0,0.2);-webkit-border-radius:100px;-moz-border-radius:100px;-ms-border-radius:100px;-o-border-radius:100px;border-radius:100px;color:#FFF;text-transform:uppercase;-webkit-transition:all 0.15s;-moz-transition:all 0.15s;-o-transition:all 0.15s;transition:all 0.15s}.btn-round:hover{background:rgba(0,0,0,0.4);color:#fff}.btn-round.blue{background:#FFF;border:2px solid #3B7EBB;color:#3B7EBB}.btn-round.blue:hover{color:#234a6d;border-color:#234a6d}html{-webkit-font-smoothing:antialiased}body{color:#333}.inner{*zoom:1;width:940px;margin:0 auto;padding:0 10px}.inner:after{content:"";display:table;clear:both}.fixed{position:fixed;z-index:1000001}.hide{display:none}a{text-decoration:none;color:#397dba;-webkit-transition:all 0.15s linear;-moz-transition:all 0.15s linear;-o-transition:all 0.15s linear;transition:all 0.15s linear}a:hover{text-decoration:none;color:#2d6393}.title-l{font:24px 'Proxima Nova Extrabold';letter-spacing:-1px}.size-l{font:18px 'Proxima Nova Regular'}.size-bl{font:18px 'Proxima Nova Extrabold'}.size-sbl{font:18px 'Proxima Nova Light'}.size-m{font:16px 'Proxima Nova Regular'}.size-bm{font:16px 'Proxima Nova Extrabold'}.size-sbm{font:16px 'Proxima Nova Light'}.size-s{font:14px 'Proxima Nova Regular'}.size-bs{font:14px 'Proxima Nova Extrabold'}.size-sbs{font:14px 'Proxima Nova Light'}.size-xs{font:12px 'Proxima Nova Regular'}.size-bxs{font:12px 'Proxima Nova Extrabold'}.size-sbxs{font:12px 'Proxima Nova Light'}.header{padding:25px 0;background:#397dba;color:#fff;-webkit-box-shadow:inset 0 -1px 0 rgba(0,0,0,0.2);-moz-box-shadow:inset 0 -1px 0 rgba(0,0,0,0.2);box-shadow:inset 0 -1px 0 rgba(0,0,0,0.2)}.header a{color:#fff}#cartodb-map{position:absolute;z-index:1;top:0;bottom:0;left:0;width:100%}.footer{position:relative;z-index:1000002;font:14px "Proxima Nova Regular";background:#252A2F;color:#fff}.footer a{color:#fff;-webkit-transition:0.3s all;-moz-transition:0.3s all;-o-transition:0.3s all;transition:0.3s all}.footer a:hover{color:#b3b3b3}.footer-inner{*zoom:1;padding:20px}.footer-inner:after{content:"";display:table;clear:both}.footer-inner p{display:-moz-inline-stack;display:inline-block;vertical-align:middle;*vertical-align:auto;zoom:1;*display:inline;font:normal 700 14px 'Proxima Nova Semibold'}.ftr-brand{text-indent:-9000px;width:38px;height:50px;margin-right:20px;background:url('../img/icons/logo-footer.png?1399284389') no-repeat;background-size:38px}.ftr-left{float:left}.ftr-right{float:right}.ftr-twitter{display:-moz-inline-stack;display:inline-block;vertical-align:middle;*vertical-align:auto;zoom:1;*display:inline;width:29px;height:20px;margin-right:8px;background:url('../img/icons/twitter-footer.png?1397073941') no-repeat;filter:progid:DXImageTransform.Microsoft.Alpha(Opacity=50);opacity:0.5}.ftr-share{margin-top:16px}.disclaimer{margin-top:20px;font:16px "Proxima Nova Light";color:rgba(255,255,255,0.5)}.h-valign{position:relative}.h-valign:before{display:-moz-inline-stack;display:inline-block;vertical-align:middle;*vertical-align:auto;zoom:1;*display:inline;content:"";height:100%}.h-iblock{display:inline-block;margin-left:-4px}.h-malign{vertical-align:middle}.h-tcenter{text-align:center}.h-tright{text-align:right}.h-left{float:left}.h-right{float:right}.h-txt-white{color:#fff}.h-pa{position:absolute}.h-pr{position:relative}.inb-list>li{display:inline-block;vertical-align:top}.hdr-course{position:relative;height:330px;margin-bottom:40px;border-bottom:1px solid #CCC;background:#eee}.hdr-info{margin-top:39px;color:rgba(255,255,255,0.6)}.hdr-info a{text-decoration:underline;color:rgba(255,255,255,0.6)}.hdr-info a:hover{color:#fff}.hdr-title{display:inline-block;margin-bottom:4px;font:22px/24px 'Proxima Nova Bold';letter-spacing:-1px}.hdr-crs-inner{z-index:1;height:330px}.hdr-crs-title{margin-bottom:8px;font:48px/52px 'Proxima Nova Bold';letter-spacing:-1px;color:#111}.hdr-crs-subtitle{font:26px/30px 'Proxima Nova Light'}.hdr-crs-icon{display:-moz-inline-stack;display:inline-block;vertical-align:middle;*vertical-align:auto;zoom:1;*display:inline;width:85px;height:85px;border:4px solid rgba(255,255,255,0.8);margin-bottom:12px;background:#85C77C;-webkit-border-radius:50%;-moz-border-radius:50%;-ms-border-radius:50%;-o-border-radius:50%;border-radius:50%}.hdr-nav{padding:25px 10px}.crs-nav{position:relative;width:218px;padding-top:7px}.crs-home .crs-nav{padding-top:41px}.crs-nav li{margin-bottom:32px}.crs-nav h3{margin-bottom:10px}.crs-nav h3.current{margin-left:-13px;padding-left:10px;border-left:3px solid #397DBA}.crs-nav.fixed{position:fixed;top:106px}.crs-nav.bottom{position:absolute;z-index:1;top:auto;bottom:0}.crs-nav-info{margin-bottom:10px;color:#666}.crs-nav-info a{color:#666}.crs-nav-info a:hover{color:#000;text-decoration:underline}.crs-inner{width:700px}.crs-info{position:relative;margin-bottom:40px}.crs-info:before{content:"";position:absolute;top:0;right:0;bottom:0;left:0;border:1px solid #ddd;border:1px solid rgba(0,0,0,0.2);-webkit-border-radius:4px;-moz-border-radius:4px;-ms-border-radius:4px;-o-border-radius:4px;border-radius:4px;pointer-events:none}.crs-info-container{padding:40px}.crs-footer{background:#85C77C;padding:40px;border-bottom-right-radius:4px;border-bottom-left-radius:4px}.crs-ftr-option{margin-right:100px}.crs-ftr-option>li{margin-left:45px}.crs-ftr-option>li:first-child{margin-left:0}.crs-ftr-option dt{margin-bottom:2px;filter:progid:DXImageTransform.Microsoft.Alpha(Opacity=80);opacity:0.8}.crs-ftr-option dd:first-letter{text-transform:uppercase}.crs-info-title{margin-bottom:20px}.crs-info-txt{margin-bottom:40px;font:18px/1.3 'Proxima Nova Regular'}.crs-info-pre>li{margin-top:18px}.crs-info-pre>li:first-child{margin-top:0}.crs-ftr-icon{margin-right:12px;width:48px;height:48px;background:#fff;-webkit-border-radius:2px;-moz-border-radius:2px;-ms-border-radius:2px;-o-border-radius:2px;border-radius:2px}.crs-subscribe{padding:40px;margin-bottom:80px;background:#424a50;color:#fff}.crs-sbs-icon{margin-right:16px}.crs-sbs-title{margin-bottom:6px}.crs-sbs-header{margin-bottom:24px}.crs-disclaimer{filter:progid:DXImageTransform.Microsoft.Alpha(Opacity=50);opacity:0.5}.crs-share{margin:45px 0 0 0}.crs-sbs-form{margin-bottom:20px}.crs-sbs-form fieldset{-webkit-border-radius:4px;-moz-border-radius:4px;-ms-border-radius:4px;-o-border-radius:4px;border-radius:4px;background:#fff}.crs-sbs-form input[type="text"]{position:relative;z-index:3;margin:6px 0 0 10px;padding:10px;width:70%;border:0;background:none}.crs-sbs-form input[type="text"]:focus{outline:none}.crs-sbs-form input[type="text"]:focus+label{opacity:0}.crs-sbs-form label{top:16px;left:20px;z-index:1;color:#aaa;-webkit-transition:opacity 0.3s;-moz-transition:opacity 0.3s;-o-transition:opacity 0.3s;transition:opacity 0.3s}.crs-sbs-submit{border:0;padding:18px 20px;margin:0;margin-right:-1px;background:#397dba;-webkit-border-radius:0 5px 5px 0;-moz-border-radius:0 5px 5px 0;-ms-border-radius:0 5px 5px 0;-o-border-radius:0 5px 5px 0;border-radius:0 5px 5px 0;cursor:pointer}.breadcumbs a{color:#333}.breadcumbs a:hover{color:#000;text-decoration:underline}.breadcumbs>li{font:16px 'Proxima Nova Light'}.breadcumbs>li.last{font-family:'Proxima Nova Bold';font-weight:700}.breadcumbs>li.last:after{content:''}.breadcumbs>li:after{content:'\203A';margin:0 5px 0 8px}.h-dropdown{z-index:2;overflow:hidden;top:12px;right:10px;background:#fff;-webkit-border-radius:4px;-moz-border-radius:4px;-ms-border-radius:4px;-o-border-radius:4px;border-radius:4px;padding:12px 50px 12px 12px;height:16px;border:1px solid rgba(0,0,0,0.1)}.h-dropdown a{color:#333}.h-dropdown a:hover{color:#000;text-decoration:none}.h-dropdown li{margin-bottom:16px;line-height:1}.h-dropdown li:last-child{margin-bottom:0}.h-dropdown.drp-open{height:auto;-webkit-box-shadow:0px 0px 7px rgba(0,0,0,0.1);-moz-box-shadow:0px 0px 7px rgba(0,0,0,0.1);box-shadow:0px 0px 7px rgba(0,0,0,0.1)}.h-drp-actions{top:8px;right:12px;padding:8px 0 8px 12px;border-left:1px solid #ccc}.lss-inner{margin:0 0 50px 0}.lss-inner p{font:18px/28px 'Proxima Nova Regular';margin-bottom:20px}.lss-inner h2{color:#111;font:24px/26px 'Proxima Nova Extrabold';margin-bottom:18px}.lss-inner h3{color:#111;font:20px/23px 'Proxima Nova Extrabold';margin-bottom:16px;margin-top:40px}.lss-inner img,.lss-inner iframe{max-width:700px;margin:14px 0 6px 0}.lss-inner .lss-end{padding:40px 0 20px 0;margin:0 0 40px 0;border-top:1px solid #DDD;border-bottom:1px solid #DDD;*zoom:1}.lss-inner .lss-end:after{content:"";display:table;clear:both}.lss-inner .lss-end h2{margin:0}.lss-inner .lss-end p{margin:0 0 24px 0;font-size:16px;color:#999}.lss-inner .lss-end .h-right{margin:15px 0 0 0}.lss-inner .lss-end span{padding:5px 7px 5px 7px;margin:0 3px 0 3px;background-color:red;border-radius:3px}.lss-inner .lss-end span.twitter{background-color:#4DD2FF}.lss-inner .lss-end span.facebook{background-color:#006DD9}.lss-inner .lss-end span a{font-family:'Proxima Nova Semibold';font-weight:700;color:white}pre,code{overflow:auto;background-color:#F8F8F8;margin-bottom:38px;padding:20px;border:1px solid #DDD;font:16px/22px Consolas, "Liberation Mono", Courier, monospace;-webkit-border-radius:3px;-moz-border-radius:3px;-ms-border-radius:3px;-o-border-radius:3px;border-radius:3px}code{padding:2px}pre>code{border:none;padding:0;background:transparent}.lss-hdr-inner{border-bottom:1px solid #CCC;width:100%;background:#fff}.lss-hdr-inner.fixed{position:fixed;z-index:1001;top:-103px}.lss-hdr-inner.border{border-bottom:1px solid #ccc;border-bottom-color:rgba(204,204,204,0.2)}.lss-hdr-inner.scroll:after{content:"";position:absolute;right:0;bottom:-136px;left:0;height:135px;background:-webkit-gradient(linear, 50% 0%, 50% 100%, color-stop(0%, #ffffff), color-stop(100%, rgba(255,255,255,0)));background:-webkit-linear-gradient(top, #ffffff,rgba(255,255,255,0));background:-moz-linear-gradient(top, #ffffff,rgba(255,255,255,0));background:-o-linear-gradient(top, #ffffff,rgba(255,255,255,0));background:linear-gradient(top, #ffffff,rgba(255,255,255,0));-webkit-box-shadow:inset 0px 2px 3px rgba(0,0,0,0.05);-moz-box-shadow:inset 0px 2px 3px rgba(0,0,0,0.05);box-shadow:inset 0px 2px 3px rgba(0,0,0,0.05);pointer-events:none}.lss-container{position:relative}.lss-container.scrolled{padding-top:170px}.lss-course{position:relative;border-bottom:1px solid #CCC;margin-bottom:40px;height:105px;background:#eee}.progress-bar{display:-moz-inline-stack;display:inline-block;vertical-align:middle;*vertical-align:auto;zoom:1;*display:inline;position:relative;padding:9px 0}.progress-num{display:none;position:absolute;top:17px;right:-50px;width:100px;font:bold 14px/40px "Proxima Nova Bold";background:rgba(66,74,80,0.9);color:rgba(255,255,255,0.8);-webkit-border-radius:5px;-moz-border-radius:5px;-ms-border-radius:5px;-o-border-radius:5px;border-radius:5px;text-align:center}.progress-num:after{content:" ";display:block;position:absolute;bottom:100%;left:50%;margin-left:-8px;height:0;width:0;border:8px solid transparent;border-bottom:6px solid rgba(66,74,80,0.9);pointer-events:none}.progress-bar-outer{position:absolute;z-index:1;right:10px;left:10px;bottom:-10px}.progress-bar-inner{height:1px;background:#74bf6a;-webkit-box-shadow:0 0 3px rgba(133,199,124,0.3);-moz-box-shadow:0 0 3px rgba(133,199,124,0.3);box-shadow:0 0 3px rgba(133,199,124,0.3)}.lss-about{box-shadow:none}.hdr-about{position:relative;height:360px;margin-bottom:40px;background:url("../img/header-about.jpg") no-repeat;-webkit-background-size:cover;-moz-background-size:cover;-o-background-size:cover;background-size:cover}.hdr-title{display:inline-block;margin-bottom:4px;font:22px/24px 'Proxima Nova Bold';letter-spacing:-1px}.hdr-crs-inner{height:360px}.lss-hdr-inner{border-bottom:0}

diff --git a/sass/about.scss b/sass/about.scss
@@ -1,5 +1,6 @@
 @import "_syntax";
 @import 'course';
+@import "compass/css3/background-size";
 
 .lss-about {
   box-shadow: none;
@@ -9,7 +10,8 @@
   position: relative;
   height: 360px;
   margin-bottom: 40px;
-  background:url('../img/header-about.jpg') 0 0 no-repeat;
+  background:url('../img/header-about.jpg') no-repeat;
+  @include background-size(cover);
 }
 
 .hdr-title {
